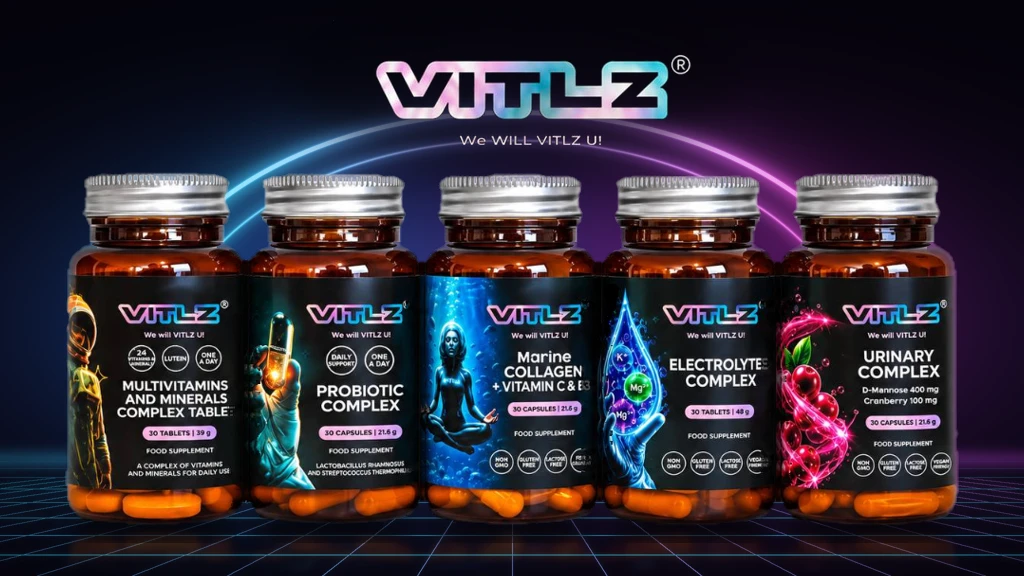
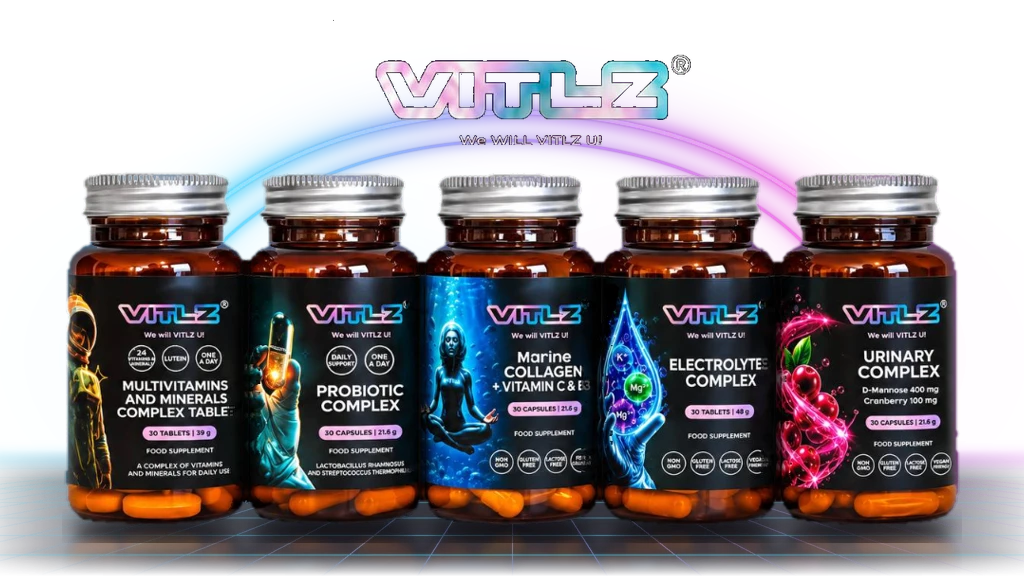
Make upper hero background transparent so live space canvas shows through.

diff --git a/index.html b/index.html
@@ -78,8 +78,8 @@
         <section id="home" class="hero-section retro-grid">
             <div class="hero-images will-animate">
                 <picture>
-                    <source srcset="images/hero-lineup.webp?v=20261117g" type="image/webp">
-                    <img src="images/hero-lineup.png?v=20261117g" alt="VITLZ formulas — We WILL VITLZ U!" class="hero-lineup" width="1024" height="576" loading="eager" />
+                    <source srcset="images/hero-lineup.webp?v=20261117h" type="image/webp">
+                    <img src="images/hero-lineup.png?v=20261117h" alt="VITLZ formulas — We WILL VITLZ U!" class="hero-lineup" width="1024" height="576" loading="eager" />
                 </picture>
             </div>
             <div class="container">
